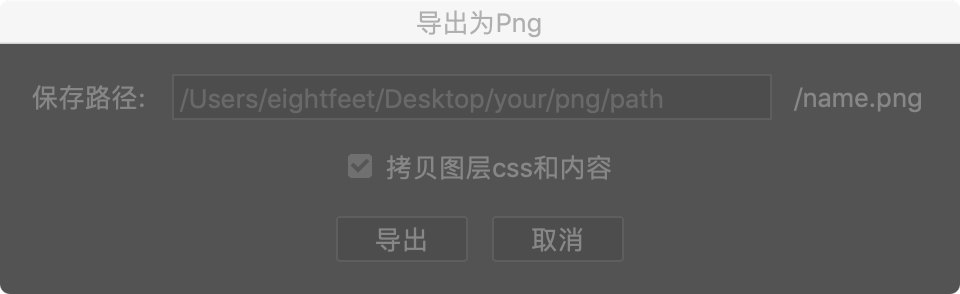
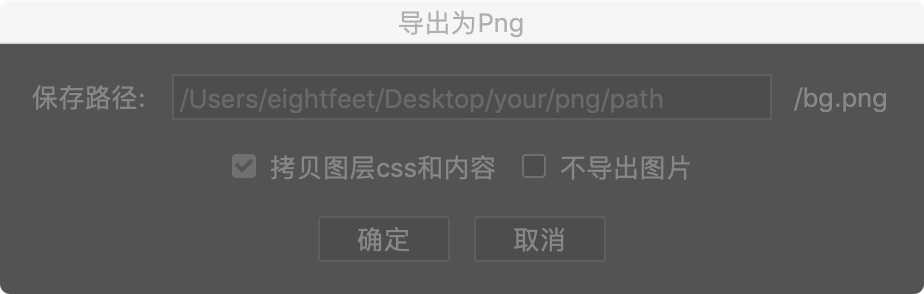
update

diff --git a/export2png.jsx b/export2png.jsx
@@ -20,18 +20,28 @@ try {
     dlg.msgEt = G1.add('edittext', [0, 0, 300, 20],  Path, { name: "path", multiline: false, noecho: false, readonly: false });
     dlg.msgStName = G1.add('statictext', undefined, '/' + activeDocument.activeLayer.name + '.png');
 
+    dlg.msgCheckbox = dlg.add('group', undefined, '');
+    dlg.msgCheckbox.orientation = "row";
     // 定制UI
-    dlg.checkbox = dlg.add('checkbox',undefined,'拷贝图层css和内容');   
+    dlg.msgCheckbox.checkbox = dlg.msgCheckbox.add('checkbox',undefined,'拷贝图层css和内容');   
     if ($.getenv("checkbox") === 'true') {
-        dlg.checkbox.value = true;
+        dlg.msgCheckbox.checkbox.value = true;
     }
     if ($.getenv("checkbox") === 'false' || $.getenv("checkbox") === null) {
-        dlg.checkbox.value = false;
+        dlg.msgCheckbox.checkbox.value = false;
+    }
+
+    dlg.msgCheckbox.checkboxno = dlg.msgCheckbox.add('checkbox',undefined,'不导出图片');   
+    if ($.getenv("checkboxno") === 'true') {
+        dlg.msgCheckbox.checkboxno.value = true;
+    }
+    if ($.getenv("checkboxno") === 'false' || $.getenv("checkboxno") === null) {
+        dlg.msgCheckbox.checkboxno.value = false;
     }
 
     dlg.msgFoot = dlg.add('group', undefined, '');
     dlg.msgFoot.orientation = "row";
-    dlg.msgFoot.btn = dlg.msgFoot.add('button', undefined, '导出', { name: "export" });
+    dlg.msgFoot.btn = dlg.msgFoot.add('button', undefined, '确定', { name: "export" });
     dlg.msgFoot.buildBtn = dlg.msgFoot.add('button', undefined, '取消');
 
     // 事件处理
@@ -43,9 +53,14 @@ try {
 
     function actionDo(){
         $.setenv("Path", dlg.findElement("path").text)
-        quick_export_png($.getenv("Path"), true);
+        if (dlg.msgCheckbox.checkboxno.value === true) {
+            $.setenv("checkboxno", true);
+        } else {
+            $.setenv("checkboxno", false);
+            quick_export_png($.getenv("Path"), true);
+        }
         dlg.close();
-        if (dlg.checkbox.value === true) {
+        if (dlg.msgCheckbox.checkbox.value === true) {
             $.setenv("checkbox", true)
         } else {
             $.setenv("checkbox", false)

diff --git a/README.md b/README.md
@@ -19,3 +19,5 @@
 
 4. 设置脚本快捷键，点击【编辑】菜单 – 【键盘快捷键和菜单】- 然后将export2png设置快捷键。
 
+   ![](./ex2.png)
+
